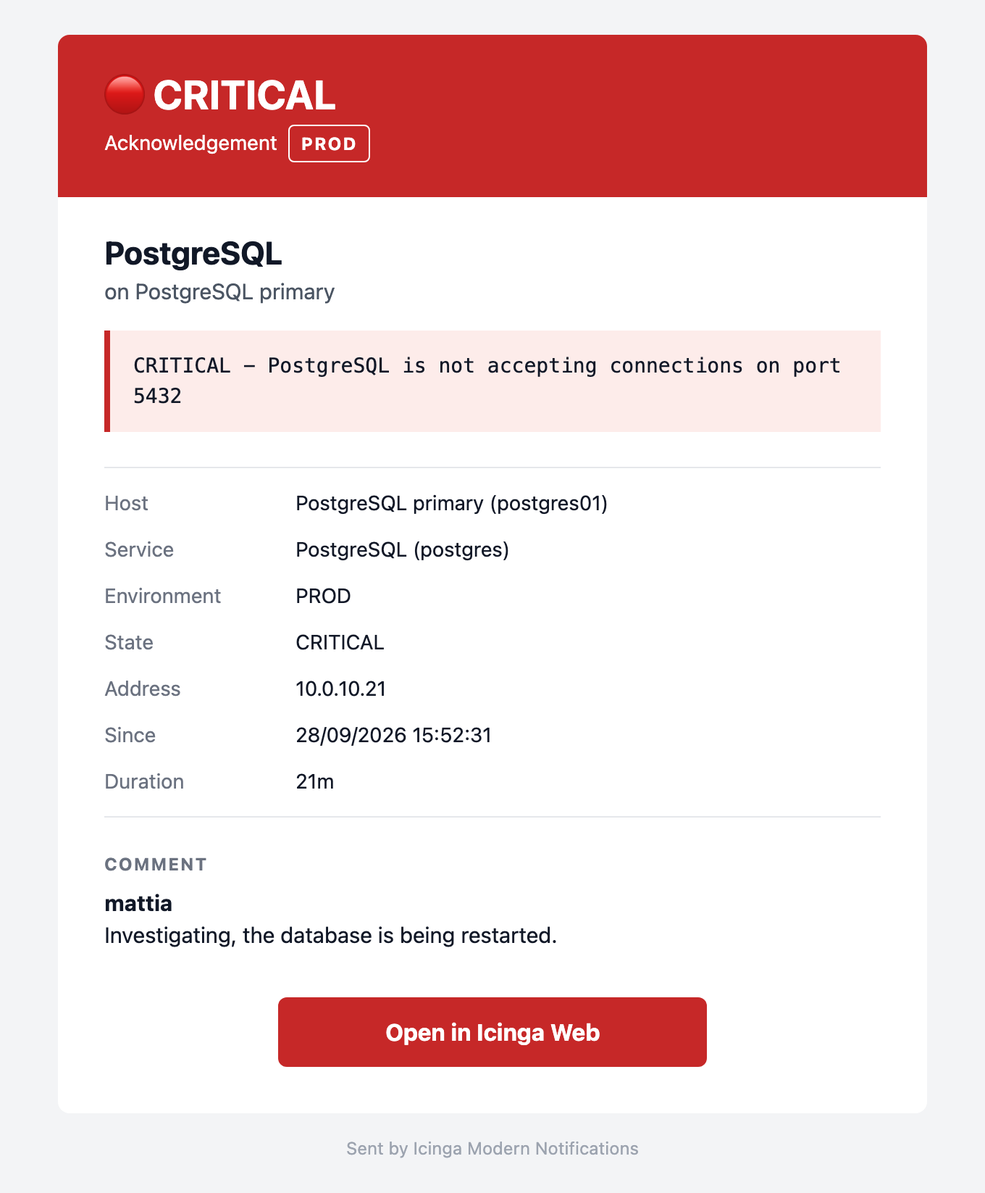
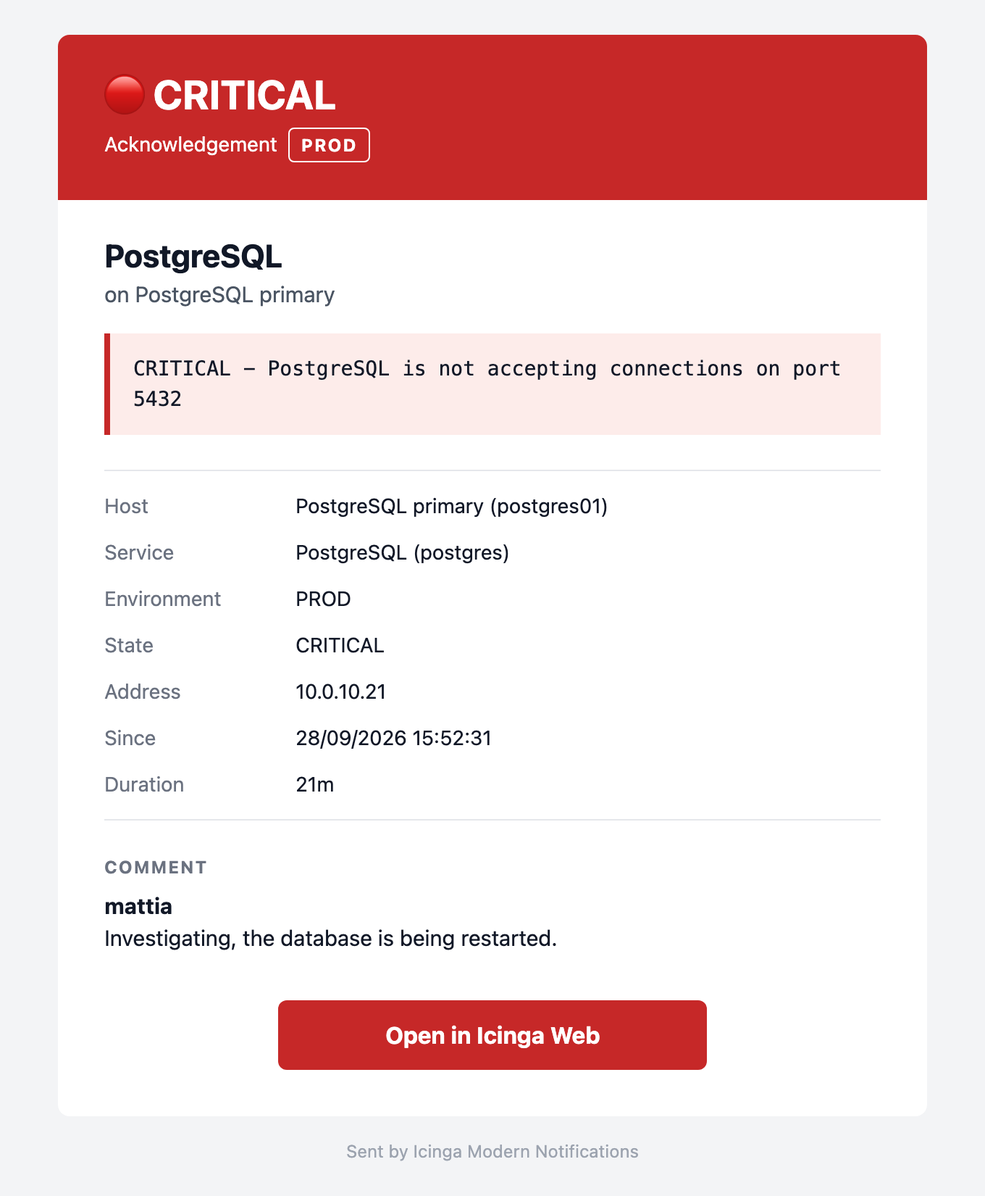
Show tags in the example emails and screenshots
Add location/team tags to the existing scenarios and a new WARNING
scenario with many tags (desktop and mobile screenshots) to show how
the header badges wrap.

diff --git a/examples/emails/service-warning-many-tags.html b/examples/emails/service-warning-many-tags.html
@@ -6,11 +6,11 @@
 <meta http-equiv="X-UA-Compatible" content="IE=edge">
 <meta name="color-scheme" content="light">
 <meta name="supported-color-schemes" content="light">
-<title>🔴 [ICINGA][CRITICAL][PROD] postgres01 / postgres</title>
+<title>🟠 [ICINGA][WARNING][PROD] postgres01 / erp-api</title>
 <style>
   body { margin: 0 !important; padding: 0 !important; width: 100% !important; }
   table { border-collapse: collapse; }
-  a { color: #c62828; }
+  a { color: #e65100; }
   @media only screen and (max-width: 620px) {
     .container { width: 100% !important; }
     .outer { padding: 0 !important; }
@@ -23,22 +23,22 @@
 </style>
 </head>
 <body style="margin:0; padding:0; background-color:#f3f4f6;">
-<div style="display:none; max-height:0; overflow:hidden; mso-hide:all; font-size:1px; line-height:1px; color:#f3f4f6;">CRITICAL - postgres01 / postgres: CRITICAL - PostgreSQL is not accepting connections on port 5432</div>
+<div style="display:none; max-height:0; overflow:hidden; mso-hide:all; font-size:1px; line-height:1px; color:#f3f4f6;">WARNING - postgres01 / erp-api: HTTP WARNING - response time 2.8 s (warning at 2 s)</div>
 <table role="presentation" width="100%" cellpadding="0" cellspacing="0" border="0" style="background-color:#f3f4f6;">
 <tr>
 <td class="outer" align="center" style="padding:24px 12px;">
 <!--[if mso]><table role="presentation" width="600" cellpadding="0" cellspacing="0" border="0"><tr><td><![endif]-->
 <table role="presentation" class="container" width="600" cellpadding="0" cellspacing="0" border="0" style="width:100%; max-width:600px; background-color:#ffffff; border-radius:8px; overflow:hidden;"><tr>
-    <td class="px" bgcolor="#c62828" style="background-color:#c62828; padding:24px 32px;">
-      <div class="status" style="font-family:-apple-system, BlinkMacSystemFont, 'Segoe UI', Roboto, Helvetica, Arial, sans-serif; font-size:28px; line-height:34px; font-weight:bold; color:#ffffff;">🔴 CRITICAL</div>      <div class="badges" style="font-family:-apple-system, BlinkMacSystemFont, 'Segoe UI', Roboto, Helvetica, Arial, sans-serif; font-size:14px; line-height:26px; color:#ffffff; padding-top:4px;"><span style="display:inline-block; padding:2px 8px; border:1px solid #ffffff; border-radius:4px; font-size:12px; line-height:18px; margin:2px 0; font-weight:bold; letter-spacing:1px;">PROD</span>&nbsp; <span title="Location" style="display:inline-block; padding:2px 8px; border:1px solid #ffffff; border-radius:4px; font-size:12px; line-height:18px; margin:2px 0;">DC Milano</span>&nbsp; <span title="Team" style="display:inline-block; padding:2px 8px; border:1px solid #ffffff; border-radius:4px; font-size:12px; line-height:18px; margin:2px 0;">DBA</span></div>    </td>
+    <td class="px" bgcolor="#e65100" style="background-color:#e65100; padding:24px 32px;">
+      <div class="status" style="font-family:-apple-system, BlinkMacSystemFont, 'Segoe UI', Roboto, Helvetica, Arial, sans-serif; font-size:28px; line-height:34px; font-weight:bold; color:#ffffff;">🟠 WARNING</div>      <div class="badges" style="font-family:-apple-system, BlinkMacSystemFont, 'Segoe UI', Roboto, Helvetica, Arial, sans-serif; font-size:14px; line-height:26px; color:#ffffff; padding-top:4px;"><span style="display:inline-block; padding:2px 8px; border:1px solid #ffffff; border-radius:4px; font-size:12px; line-height:18px; margin:2px 0; font-weight:bold; letter-spacing:1px;">PROD</span>&nbsp; <span title="Location" style="display:inline-block; padding:2px 8px; border:1px solid #ffffff; border-radius:4px; font-size:12px; line-height:18px; margin:2px 0;">DC Milano</span>&nbsp; <span title="Team" style="display:inline-block; padding:2px 8px; border:1px solid #ffffff; border-radius:4px; font-size:12px; line-height:18px; margin:2px 0;">Applications</span>&nbsp; <span title="Customer" style="display:inline-block; padding:2px 8px; border:1px solid #ffffff; border-radius:4px; font-size:12px; line-height:18px; margin:2px 0;">ACME S.p.A.</span>&nbsp; <span title="Service level" style="display:inline-block; padding:2px 8px; border:1px solid #ffffff; border-radius:4px; font-size:12px; line-height:18px; margin:2px 0;">Gold 24x7</span>&nbsp; <span title="Cluster" style="display:inline-block; padding:2px 8px; border:1px solid #ffffff; border-radius:4px; font-size:12px; line-height:18px; margin:2px 0;">erp-prod-a</span>&nbsp; <span title="Owner" style="display:inline-block; padding:2px 8px; border:1px solid #ffffff; border-radius:4px; font-size:12px; line-height:18px; margin:2px 0;">m.rossi</span></div>    </td>
   </tr><tr>
-    <td class="px" style="padding:24px 32px 16px 32px;">      <div class="title" style="font-family:-apple-system, BlinkMacSystemFont, 'Segoe UI', Roboto, Helvetica, Arial, sans-serif; font-size:22px; line-height:28px; font-weight:bold; color:#111827; word-break:break-word;">PostgreSQL</div>
+    <td class="px" style="padding:24px 32px 16px 32px;">      <div class="title" style="font-family:-apple-system, BlinkMacSystemFont, 'Segoe UI', Roboto, Helvetica, Arial, sans-serif; font-size:22px; line-height:28px; font-weight:bold; color:#111827; word-break:break-word;">ERP API latency</div>
       <div style="font-family:-apple-system, BlinkMacSystemFont, 'Segoe UI', Roboto, Helvetica, Arial, sans-serif; font-size:15px; line-height:22px; color:#4b5563; padding-top:2px; word-break:break-word;">on PostgreSQL primary</div>    </td>
   </tr><tr>
     <td class="px" style="padding:0 32px 24px 32px;">
       <table role="presentation" width="100%" cellpadding="0" cellspacing="0" border="0">
         <tr>
-          <td bgcolor="#fdecea" style="background-color:#fdecea; border-left:4px solid #c62828; padding:14px 16px; font-family:SFMono-Regular, Menlo, Consolas, 'Liberation Mono', 'Courier New', monospace; font-size:14px; line-height:21px; color:#111827; word-break:break-word;">CRITICAL - PostgreSQL is not accepting connections on port 5432</td>
+          <td bgcolor="#fff3e0" style="background-color:#fff3e0; border-left:4px solid #e65100; padding:14px 16px; font-family:SFMono-Regular, Menlo, Consolas, 'Liberation Mono', 'Courier New', monospace; font-size:14px; line-height:21px; color:#111827; word-break:break-word;">HTTP WARNING - response time 2.8 s (warning at 2 s)</td>
         </tr>
       </table>
     </td>
@@ -50,7 +50,7 @@
   <td valign="top" style="padding:6px 0; font-family:-apple-system, BlinkMacSystemFont, 'Segoe UI', Roboto, Helvetica, Arial, sans-serif; font-size:14px; line-height:20px; color:#111827; word-break:break-word;">PostgreSQL primary (postgres01)</td>
 </tr>        <tr>
   <td class="label" valign="top" style="padding:6px 12px 6px 0; width:120px; font-family:-apple-system, BlinkMacSystemFont, 'Segoe UI', Roboto, Helvetica, Arial, sans-serif; font-size:14px; line-height:20px; color:#6b7280;">Service</td>
-  <td valign="top" style="padding:6px 0; font-family:-apple-system, BlinkMacSystemFont, 'Segoe UI', Roboto, Helvetica, Arial, sans-serif; font-size:14px; line-height:20px; color:#111827; word-break:break-word;">PostgreSQL (postgres)</td>
+  <td valign="top" style="padding:6px 0; font-family:-apple-system, BlinkMacSystemFont, 'Segoe UI', Roboto, Helvetica, Arial, sans-serif; font-size:14px; line-height:20px; color:#111827; word-break:break-word;">ERP API latency (erp-api)</td>
 </tr>        <tr>
   <td class="label" valign="top" style="padding:6px 12px 6px 0; width:120px; font-family:-apple-system, BlinkMacSystemFont, 'Segoe UI', Roboto, Helvetica, Arial, sans-serif; font-size:14px; line-height:20px; color:#6b7280;">Environment</td>
   <td valign="top" style="padding:6px 0; font-family:-apple-system, BlinkMacSystemFont, 'Segoe UI', Roboto, Helvetica, Arial, sans-serif; font-size:14px; line-height:20px; color:#111827; word-break:break-word;">PROD</td>
@@ -59,10 +59,22 @@
   <td valign="top" style="padding:6px 0; font-family:-apple-system, BlinkMacSystemFont, 'Segoe UI', Roboto, Helvetica, Arial, sans-serif; font-size:14px; line-height:20px; color:#111827; word-break:break-word;">DC Milano</td>
 </tr>        <tr>
   <td class="label" valign="top" style="padding:6px 12px 6px 0; width:120px; font-family:-apple-system, BlinkMacSystemFont, 'Segoe UI', Roboto, Helvetica, Arial, sans-serif; font-size:14px; line-height:20px; color:#6b7280;">Team</td>
-  <td valign="top" style="padding:6px 0; font-family:-apple-system, BlinkMacSystemFont, 'Segoe UI', Roboto, Helvetica, Arial, sans-serif; font-size:14px; line-height:20px; color:#111827; word-break:break-word;">DBA</td>
+  <td valign="top" style="padding:6px 0; font-family:-apple-system, BlinkMacSystemFont, 'Segoe UI', Roboto, Helvetica, Arial, sans-serif; font-size:14px; line-height:20px; color:#111827; word-break:break-word;">Applications</td>
+</tr>        <tr>
+  <td class="label" valign="top" style="padding:6px 12px 6px 0; width:120px; font-family:-apple-system, BlinkMacSystemFont, 'Segoe UI', Roboto, Helvetica, Arial, sans-serif; font-size:14px; line-height:20px; color:#6b7280;">Customer</td>
+  <td valign="top" style="padding:6px 0; font-family:-apple-system, BlinkMacSystemFont, 'Segoe UI', Roboto, Helvetica, Arial, sans-serif; font-size:14px; line-height:20px; color:#111827; word-break:break-word;">ACME S.p.A.</td>
+</tr>        <tr>
+  <td class="label" valign="top" style="padding:6px 12px 6px 0; width:120px; font-family:-apple-system, BlinkMacSystemFont, 'Segoe UI', Roboto, Helvetica, Arial, sans-serif; font-size:14px; line-height:20px; color:#6b7280;">Service level</td>
+  <td valign="top" style="padding:6px 0; font-family:-apple-system, BlinkMacSystemFont, 'Segoe UI', Roboto, Helvetica, Arial, sans-serif; font-size:14px; line-height:20px; color:#111827; word-break:break-word;">Gold 24x7</td>
+</tr>        <tr>
+  <td class="label" valign="top" style="padding:6px 12px 6px 0; width:120px; font-family:-apple-system, BlinkMacSystemFont, 'Segoe UI', Roboto, Helvetica, Arial, sans-serif; font-size:14px; line-height:20px; color:#6b7280;">Cluster</td>
+  <td valign="top" style="padding:6px 0; font-family:-apple-system, BlinkMacSystemFont, 'Segoe UI', Roboto, Helvetica, Arial, sans-serif; font-size:14px; line-height:20px; color:#111827; word-break:break-word;">erp-prod-a</td>
+</tr>        <tr>
+  <td class="label" valign="top" style="padding:6px 12px 6px 0; width:120px; font-family:-apple-system, BlinkMacSystemFont, 'Segoe UI', Roboto, Helvetica, Arial, sans-serif; font-size:14px; line-height:20px; color:#6b7280;">Owner</td>
+  <td valign="top" style="padding:6px 0; font-family:-apple-system, BlinkMacSystemFont, 'Segoe UI', Roboto, Helvetica, Arial, sans-serif; font-size:14px; line-height:20px; color:#111827; word-break:break-word;">m.rossi</td>
 </tr>        <tr>
   <td class="label" valign="top" style="padding:6px 12px 6px 0; width:120px; font-family:-apple-system, BlinkMacSystemFont, 'Segoe UI', Roboto, Helvetica, Arial, sans-serif; font-size:14px; line-height:20px; color:#6b7280;">State</td>
-  <td valign="top" style="padding:6px 0; font-family:-apple-system, BlinkMacSystemFont, 'Segoe UI', Roboto, Helvetica, Arial, sans-serif; font-size:14px; line-height:20px; color:#111827; word-break:break-word;">CRITICAL</td>
+  <td valign="top" style="padding:6px 0; font-family:-apple-system, BlinkMacSystemFont, 'Segoe UI', Roboto, Helvetica, Arial, sans-serif; font-size:14px; line-height:20px; color:#111827; word-break:break-word;">WARNING</td>
 </tr>        <tr>
   <td class="label" valign="top" style="padding:6px 12px 6px 0; width:120px; font-family:-apple-system, BlinkMacSystemFont, 'Segoe UI', Roboto, Helvetica, Arial, sans-serif; font-size:14px; line-height:20px; color:#6b7280;">Address</td>
   <td valign="top" style="padding:6px 0; font-family:-apple-system, BlinkMacSystemFont, 'Segoe UI', Roboto, Helvetica, Arial, sans-serif; font-size:14px; line-height:20px; color:#111827; word-break:break-word;">10.0.10.21</td>
@@ -71,36 +83,20 @@
   <td valign="top" style="padding:6px 0; font-family:-apple-system, BlinkMacSystemFont, 'Segoe UI', Roboto, Helvetica, Arial, sans-serif; font-size:14px; line-height:20px; color:#111827; word-break:break-word;">28/09/2026 15:52:31</td>
 </tr>        <tr>
   <td class="label" valign="top" style="padding:6px 12px 6px 0; width:120px; font-family:-apple-system, BlinkMacSystemFont, 'Segoe UI', Roboto, Helvetica, Arial, sans-serif; font-size:14px; line-height:20px; color:#6b7280;">Duration</td>
-  <td valign="top" style="padding:6px 0; font-family:-apple-system, BlinkMacSystemFont, 'Segoe UI', Roboto, Helvetica, Arial, sans-serif; font-size:14px; line-height:20px; color:#111827; word-break:break-word;">16m 14s</td>
+  <td valign="top" style="padding:6px 0; font-family:-apple-system, BlinkMacSystemFont, 'Segoe UI', Roboto, Helvetica, Arial, sans-serif; font-size:14px; line-height:20px; color:#111827; word-break:break-word;">10m 40s</td>
 </tr>        <tr><td colspan="2" style="height:8px; line-height:8px; font-size:8px;">&nbsp;</td></tr>
       </table>
     </td>
   </tr>  <tr>
-    <td class="px" style="padding:0 32px 24px 32px;">
-      <div style="font-family:-apple-system, BlinkMacSystemFont, 'Segoe UI', Roboto, Helvetica, Arial, sans-serif; font-size:12px; line-height:16px; font-weight:bold; letter-spacing:1px; text-transform:uppercase; color:#6b7280; padding-bottom:8px;">Additional output</div>
-      <table role="presentation" width="100%" cellpadding="0" cellspacing="0" border="0">
-        <tr>
-          <td bgcolor="#f9fafb" style="background-color:#f9fafb; border:1px solid #e5e7eb; padding:12px 14px; font-family:SFMono-Regular, Menlo, Consolas, 'Liberation Mono', 'Courier New', monospace; font-size:13px; line-height:19px; color:#374151; word-break:break-word;">connection to server at &#34;10.0.10.21&#34;, port 5432 failed: Connection refused<br>
-Is the server running on that host and accepting TCP/IP connections?</td>
-        </tr>
-      </table>
-    </td>
-  </tr><tr>
-  <td class="px" style="padding:0 32px 24px 32px;">
-    <div style="font-family:-apple-system, BlinkMacSystemFont, 'Segoe UI', Roboto, Helvetica, Arial, sans-serif; font-size:12px; line-height:16px; font-weight:bold; letter-spacing:1px; text-transform:uppercase; color:#6b7280; padding-bottom:8px;">Notes</div>
-    <div style="font-family:-apple-system, BlinkMacSystemFont, 'Segoe UI', Roboto, Helvetica, Arial, sans-serif; font-size:15px; line-height:22px; color:#111827; word-break:break-word;">Main PostgreSQL database for the ERP.<br>
-On-call DBA: +39 000 0000000</div>
-  </td>
-</tr>  <tr>
     <td class="px button" align="center" style="padding:8px 32px 32px 32px;">
       <!--[if mso]>
-      <v:roundrect xmlns:v="urn:schemas-microsoft-com:vml" xmlns:w="urn:schemas-microsoft-com:office:word" href="https://monitoring.example.com/icingaweb2/icingadb/service?name=postgres&amp;host.name=postgres01" style="height:48px; v-text-anchor:middle; width:280px;" arcsize="10%" stroke="f" fillcolor="#c62828">
+      <v:roundrect xmlns:v="urn:schemas-microsoft-com:vml" xmlns:w="urn:schemas-microsoft-com:office:word" href="https://monitoring.example.com/icingaweb2/icingadb/service?name=erp-api&amp;host.name=postgres01" style="height:48px; v-text-anchor:middle; width:280px;" arcsize="10%" stroke="f" fillcolor="#e65100">
         <w:anchorlock/>
         <center style="color:#ffffff; font-family:Arial, sans-serif; font-size:16px; font-weight:bold;">Open in Icinga Web</center>
       </v:roundrect>
       <![endif]-->
       <!--[if !mso]><!-->
-      <a href="https://monitoring.example.com/icingaweb2/icingadb/service?name=postgres&amp;host.name=postgres01" target="_blank" rel="noopener" style="display:inline-block; min-width:240px; padding:14px 28px; background-color:#c62828; border-radius:6px; font-family:-apple-system, BlinkMacSystemFont, 'Segoe UI', Roboto, Helvetica, Arial, sans-serif; font-size:16px; line-height:20px; font-weight:bold; color:#ffffff; text-align:center; text-decoration:none;">Open in Icinga Web</a>
+      <a href="https://monitoring.example.com/icingaweb2/icingadb/service?name=erp-api&amp;host.name=postgres01" target="_blank" rel="noopener" style="display:inline-block; min-width:240px; padding:14px 28px; background-color:#e65100; border-radius:6px; font-family:-apple-system, BlinkMacSystemFont, 'Segoe UI', Roboto, Helvetica, Arial, sans-serif; font-size:16px; line-height:20px; font-weight:bold; color:#ffffff; text-align:center; text-decoration:none;">Open in Icinga Web</a>
       <!--<![endif]-->
     </td>
   </tr>

diff --git a/examples/emails/host-recovery.html b/examples/emails/host-recovery.html
@@ -30,7 +30,7 @@
 <!--[if mso]><table role="presentation" width="600" cellpadding="0" cellspacing="0" border="0"><tr><td><![endif]-->
 <table role="presentation" class="container" width="600" cellpadding="0" cellspacing="0" border="0" style="width:100%; max-width:600px; background-color:#ffffff; border-radius:8px; overflow:hidden;"><tr>
     <td class="px" bgcolor="#2e7d32" style="background-color:#2e7d32; padding:24px 32px;">
-      <div class="status" style="font-family:-apple-system, BlinkMacSystemFont, 'Segoe UI', Roboto, Helvetica, Arial, sans-serif; font-size:28px; line-height:34px; font-weight:bold; color:#ffffff;">🟢 RECOVERY</div>      <div style="font-family:-apple-system, BlinkMacSystemFont, 'Segoe UI', Roboto, Helvetica, Arial, sans-serif; font-size:14px; line-height:20px; color:#ffffff; padding-top:4px;"><span style="display:inline-block; padding:2px 8px; border:1px solid #ffffff; border-radius:4px; font-weight:bold; font-size:12px; letter-spacing:1px;">PROD</span></div>    </td>
+      <div class="status" style="font-family:-apple-system, BlinkMacSystemFont, 'Segoe UI', Roboto, Helvetica, Arial, sans-serif; font-size:28px; line-height:34px; font-weight:bold; color:#ffffff;">🟢 RECOVERY</div>      <div class="badges" style="font-family:-apple-system, BlinkMacSystemFont, 'Segoe UI', Roboto, Helvetica, Arial, sans-serif; font-size:14px; line-height:26px; color:#ffffff; padding-top:4px;"><span style="display:inline-block; padding:2px 8px; border:1px solid #ffffff; border-radius:4px; font-size:12px; line-height:18px; margin:2px 0; font-weight:bold; letter-spacing:1px;">PROD</span>&nbsp; <span title="Location" style="display:inline-block; padding:2px 8px; border:1px solid #ffffff; border-radius:4px; font-size:12px; line-height:18px; margin:2px 0;">DC Milano</span></div>    </td>
   </tr><tr>
     <td class="px" style="padding:24px 32px 16px 32px;">      <div class="title" style="font-family:-apple-system, BlinkMacSystemFont, 'Segoe UI', Roboto, Helvetica, Arial, sans-serif; font-size:22px; line-height:28px; font-weight:bold; color:#111827; word-break:break-word;">PostgreSQL primary</div>    </td>
   </tr><tr>
@@ -50,6 +50,9 @@
 </tr>        <tr>
   <td class="label" valign="top" style="padding:6px 12px 6px 0; width:120px; font-family:-apple-system, BlinkMacSystemFont, 'Segoe UI', Roboto, Helvetica, Arial, sans-serif; font-size:14px; line-height:20px; color:#6b7280;">Environment</td>
   <td valign="top" style="padding:6px 0; font-family:-apple-system, BlinkMacSystemFont, 'Segoe UI', Roboto, Helvetica, Arial, sans-serif; font-size:14px; line-height:20px; color:#111827; word-break:break-word;">PROD</td>
+</tr>        <tr>
+  <td class="label" valign="top" style="padding:6px 12px 6px 0; width:120px; font-family:-apple-system, BlinkMacSystemFont, 'Segoe UI', Roboto, Helvetica, Arial, sans-serif; font-size:14px; line-height:20px; color:#6b7280;">Location</td>
+  <td valign="top" style="padding:6px 0; font-family:-apple-system, BlinkMacSystemFont, 'Segoe UI', Roboto, Helvetica, Arial, sans-serif; font-size:14px; line-height:20px; color:#111827; word-break:break-word;">DC Milano</td>
 </tr>        <tr>
   <td class="label" valign="top" style="padding:6px 12px 6px 0; width:120px; font-family:-apple-system, BlinkMacSystemFont, 'Segoe UI', Roboto, Helvetica, Arial, sans-serif; font-size:14px; line-height:20px; color:#6b7280;">State</td>
   <td valign="top" style="padding:6px 0; font-family:-apple-system, BlinkMacSystemFont, 'Segoe UI', Roboto, Helvetica, Arial, sans-serif; font-size:14px; line-height:20px; color:#111827; word-break:break-word;">UP</td>

diff --git a/examples/emails/host-down.html b/examples/emails/host-down.html
@@ -30,7 +30,7 @@
 <!--[if mso]><table role="presentation" width="600" cellpadding="0" cellspacing="0" border="0"><tr><td><![endif]-->
 <table role="presentation" class="container" width="600" cellpadding="0" cellspacing="0" border="0" style="width:100%; max-width:600px; background-color:#ffffff; border-radius:8px; overflow:hidden;"><tr>
     <td class="px" bgcolor="#c62828" style="background-color:#c62828; padding:24px 32px;">
-      <div class="status" style="font-family:-apple-system, BlinkMacSystemFont, 'Segoe UI', Roboto, Helvetica, Arial, sans-serif; font-size:28px; line-height:34px; font-weight:bold; color:#ffffff;">🔴 DOWN</div>      <div style="font-family:-apple-system, BlinkMacSystemFont, 'Segoe UI', Roboto, Helvetica, Arial, sans-serif; font-size:14px; line-height:20px; color:#ffffff; padding-top:4px;"><span style="display:inline-block; padding:2px 8px; border:1px solid #ffffff; border-radius:4px; font-weight:bold; font-size:12px; letter-spacing:1px;">PROD</span></div>    </td>
+      <div class="status" style="font-family:-apple-system, BlinkMacSystemFont, 'Segoe UI', Roboto, Helvetica, Arial, sans-serif; font-size:28px; line-height:34px; font-weight:bold; color:#ffffff;">🔴 DOWN</div>      <div class="badges" style="font-family:-apple-system, BlinkMacSystemFont, 'Segoe UI', Roboto, Helvetica, Arial, sans-serif; font-size:14px; line-height:26px; color:#ffffff; padding-top:4px;"><span style="display:inline-block; padding:2px 8px; border:1px solid #ffffff; border-radius:4px; font-size:12px; line-height:18px; margin:2px 0; font-weight:bold; letter-spacing:1px;">PROD</span>&nbsp; <span title="Location" style="display:inline-block; padding:2px 8px; border:1px solid #ffffff; border-radius:4px; font-size:12px; line-height:18px; margin:2px 0;">DC Milano</span></div>    </td>
   </tr><tr>
     <td class="px" style="padding:24px 32px 16px 32px;">      <div class="title" style="font-family:-apple-system, BlinkMacSystemFont, 'Segoe UI', Roboto, Helvetica, Arial, sans-serif; font-size:22px; line-height:28px; font-weight:bold; color:#111827; word-break:break-word;">PostgreSQL primary</div>    </td>
   </tr><tr>
@@ -50,6 +50,9 @@
 </tr>        <tr>
   <td class="label" valign="top" style="padding:6px 12px 6px 0; width:120px; font-family:-apple-system, BlinkMacSystemFont, 'Segoe UI', Roboto, Helvetica, Arial, sans-serif; font-size:14px; line-height:20px; color:#6b7280;">Environment</td>
   <td valign="top" style="padding:6px 0; font-family:-apple-system, BlinkMacSystemFont, 'Segoe UI', Roboto, Helvetica, Arial, sans-serif; font-size:14px; line-height:20px; color:#111827; word-break:break-word;">PROD</td>
+</tr>        <tr>
+  <td class="label" valign="top" style="padding:6px 12px 6px 0; width:120px; font-family:-apple-system, BlinkMacSystemFont, 'Segoe UI', Roboto, Helvetica, Arial, sans-serif; font-size:14px; line-height:20px; color:#6b7280;">Location</td>
+  <td valign="top" style="padding:6px 0; font-family:-apple-system, BlinkMacSystemFont, 'Segoe UI', Roboto, Helvetica, Arial, sans-serif; font-size:14px; line-height:20px; color:#111827; word-break:break-word;">DC Milano</td>
 </tr>        <tr>
   <td class="label" valign="top" style="padding:6px 12px 6px 0; width:120px; font-family:-apple-system, BlinkMacSystemFont, 'Segoe UI', Roboto, Helvetica, Arial, sans-serif; font-size:14px; line-height:20px; color:#6b7280;">State</td>
   <td valign="top" style="padding:6px 0; font-family:-apple-system, BlinkMacSystemFont, 'Segoe UI', Roboto, Helvetica, Arial, sans-serif; font-size:14px; line-height:20px; color:#111827; word-break:break-word;">DOWN</td>

diff --git a/examples/emails/index.html b/examples/emails/index.html
@@ -1,2 +1,2 @@
 <!DOCTYPE html>
-<html lang="en"><head><meta charset="utf-8"><meta name="viewport" content="width=device-width, initial-scale=1"><title>Icinga Modern Notifications - examples</title></head><body style="font-family:sans-serif; max-width:720px; margin:24px auto; padding:0 16px; line-height:1.5;"><h1>Icinga Modern Notifications - email examples</h1><ul><li><a href="service-critical.html">Service CRITICAL with notes and long output</a><br><code>🔴 [ICINGA][CRITICAL][PROD] postgres01 / postgres</code></li><li><a href="service-warning.html">Service WARNING</a><br><code>🟠 [ICINGA][WARNING][PROD] postgres01 / disk-var</code></li><li><a href="service-unknown.html">Service UNKNOWN</a><br><code>🟣 [ICINGA][UNKNOWN][PROD] postgres01 / backup</code></li><li><a href="service-recovery.html">Service RECOVERY</a><br><code>🟢 [ICINGA][RECOVERY][PROD] postgres01 / postgres</code></li><li><a href="service-acknowledgement.html">Service acknowledgement with author and comment</a><br><code>🔴 [ICINGA][CRITICAL][PROD] postgres01 / postgres</code></li><li><a href="host-down.html">Host DOWN</a><br><code>🔴 [ICINGA][DOWN][PROD] postgres01</code></li><li><a href="host-recovery.html">Host RECOVERY</a><br><code>🟢 [ICINGA][RECOVERY][PROD] postgres01</code></li><li><a href="service-critical-minimal.html">Service CRITICAL without any optional data</a><br><code>🔴 [ICINGA][CRITICAL] web01 / http</code></li></ul></body></html>
+<html lang="en"><head><meta charset="utf-8"><meta name="viewport" content="width=device-width, initial-scale=1"><title>Icinga Modern Notifications - examples</title></head><body style="font-family:sans-serif; max-width:720px; margin:24px auto; padding:0 16px; line-height:1.5;"><h1>Icinga Modern Notifications - email examples</h1><ul><li><a href="service-critical.html">Service CRITICAL with notes and long output</a><br><code>🔴 [ICINGA][CRITICAL][PROD] postgres01 / postgres</code></li><li><a href="service-warning.html">Service WARNING</a><br><code>🟠 [ICINGA][WARNING][PROD] postgres01 / disk-var</code></li><li><a href="service-unknown.html">Service UNKNOWN</a><br><code>🟣 [ICINGA][UNKNOWN][PROD] postgres01 / backup</code></li><li><a href="service-recovery.html">Service RECOVERY</a><br><code>🟢 [ICINGA][RECOVERY][PROD] postgres01 / postgres</code></li><li><a href="service-acknowledgement.html">Service acknowledgement with author and comment</a><br><code>🔴 [ICINGA][CRITICAL][PROD] postgres01 / postgres</code></li><li><a href="host-down.html">Host DOWN</a><br><code>🔴 [ICINGA][DOWN][PROD] postgres01</code></li><li><a href="host-recovery.html">Host RECOVERY</a><br><code>🟢 [ICINGA][RECOVERY][PROD] postgres01</code></li><li><a href="service-warning-many-tags.html">Service WARNING with many tags</a><br><code>🟠 [ICINGA][WARNING][PROD] postgres01 / erp-api</code></li><li><a href="service-critical-minimal.html">Service CRITICAL without any optional data</a><br><code>🔴 [ICINGA][CRITICAL] web01 / http</code></li></ul></body></html>

diff --git a/examples/emails/service-acknowledgement.html b/examples/emails/service-acknowledgement.html
@@ -30,7 +30,7 @@
 <!--[if mso]><table role="presentation" width="600" cellpadding="0" cellspacing="0" border="0"><tr><td><![endif]-->
 <table role="presentation" class="container" width="600" cellpadding="0" cellspacing="0" border="0" style="width:100%; max-width:600px; background-color:#ffffff; border-radius:8px; overflow:hidden;"><tr>
     <td class="px" bgcolor="#c62828" style="background-color:#c62828; padding:24px 32px;">
-      <div class="status" style="font-family:-apple-system, BlinkMacSystemFont, 'Segoe UI', Roboto, Helvetica, Arial, sans-serif; font-size:28px; line-height:34px; font-weight:bold; color:#ffffff;">🔴 CRITICAL</div>      <div style="font-family:-apple-system, BlinkMacSystemFont, 'Segoe UI', Roboto, Helvetica, Arial, sans-serif; font-size:14px; line-height:20px; color:#ffffff; padding-top:4px;">Acknowledgement &nbsp;<span style="display:inline-block; padding:2px 8px; border:1px solid #ffffff; border-radius:4px; font-weight:bold; font-size:12px; letter-spacing:1px;">PROD</span></div>    </td>
+      <div class="status" style="font-family:-apple-system, BlinkMacSystemFont, 'Segoe UI', Roboto, Helvetica, Arial, sans-serif; font-size:28px; line-height:34px; font-weight:bold; color:#ffffff;">🔴 CRITICAL</div>      <div class="badges" style="font-family:-apple-system, BlinkMacSystemFont, 'Segoe UI', Roboto, Helvetica, Arial, sans-serif; font-size:14px; line-height:26px; color:#ffffff; padding-top:4px;">Acknowledgement&nbsp; <span style="display:inline-block; padding:2px 8px; border:1px solid #ffffff; border-radius:4px; font-size:12px; line-height:18px; margin:2px 0; font-weight:bold; letter-spacing:1px;">PROD</span></div>    </td>
   </tr><tr>
     <td class="px" style="padding:24px 32px 16px 32px;">      <div class="title" style="font-family:-apple-system, BlinkMacSystemFont, 'Segoe UI', Roboto, Helvetica, Arial, sans-serif; font-size:22px; line-height:28px; font-weight:bold; color:#111827; word-break:break-word;">PostgreSQL</div>
       <div style="font-family:-apple-system, BlinkMacSystemFont, 'Segoe UI', Roboto, Helvetica, Arial, sans-serif; font-size:15px; line-height:22px; color:#4b5563; padding-top:2px; word-break:break-word;">on PostgreSQL primary</div>    </td>

diff --git a/examples/emails/service-unknown.html b/examples/emails/service-unknown.html
@@ -30,7 +30,7 @@
 <!--[if mso]><table role="presentation" width="600" cellpadding="0" cellspacing="0" border="0"><tr><td><![endif]-->
 <table role="presentation" class="container" width="600" cellpadding="0" cellspacing="0" border="0" style="width:100%; max-width:600px; background-color:#ffffff; border-radius:8px; overflow:hidden;"><tr>
     <td class="px" bgcolor="#6a1b9a" style="background-color:#6a1b9a; padding:24px 32px;">
-      <div class="status" style="font-family:-apple-system, BlinkMacSystemFont, 'Segoe UI', Roboto, Helvetica, Arial, sans-serif; font-size:28px; line-height:34px; font-weight:bold; color:#ffffff;">🟣 UNKNOWN</div>      <div style="font-family:-apple-system, BlinkMacSystemFont, 'Segoe UI', Roboto, Helvetica, Arial, sans-serif; font-size:14px; line-height:20px; color:#ffffff; padding-top:4px;"><span style="display:inline-block; padding:2px 8px; border:1px solid #ffffff; border-radius:4px; font-weight:bold; font-size:12px; letter-spacing:1px;">PROD</span></div>    </td>
+      <div class="status" style="font-family:-apple-system, BlinkMacSystemFont, 'Segoe UI', Roboto, Helvetica, Arial, sans-serif; font-size:28px; line-height:34px; font-weight:bold; color:#ffffff;">🟣 UNKNOWN</div>      <div class="badges" style="font-family:-apple-system, BlinkMacSystemFont, 'Segoe UI', Roboto, Helvetica, Arial, sans-serif; font-size:14px; line-height:26px; color:#ffffff; padding-top:4px;"><span style="display:inline-block; padding:2px 8px; border:1px solid #ffffff; border-radius:4px; font-size:12px; line-height:18px; margin:2px 0; font-weight:bold; letter-spacing:1px;">PROD</span></div>    </td>
   </tr><tr>
     <td class="px" style="padding:24px 32px 16px 32px;">      <div class="title" style="font-family:-apple-system, BlinkMacSystemFont, 'Segoe UI', Roboto, Helvetica, Arial, sans-serif; font-size:22px; line-height:28px; font-weight:bold; color:#111827; word-break:break-word;">Nightly backup</div>
       <div style="font-family:-apple-system, BlinkMacSystemFont, 'Segoe UI', Roboto, Helvetica, Arial, sans-serif; font-size:15px; line-height:22px; color:#4b5563; padding-top:2px; word-break:break-word;">on PostgreSQL primary</div>    </td>

diff --git a/examples/emails/service-recovery.html b/examples/emails/service-recovery.html
@@ -30,7 +30,7 @@
 <!--[if mso]><table role="presentation" width="600" cellpadding="0" cellspacing="0" border="0"><tr><td><![endif]-->
 <table role="presentation" class="container" width="600" cellpadding="0" cellspacing="0" border="0" style="width:100%; max-width:600px; background-color:#ffffff; border-radius:8px; overflow:hidden;"><tr>
     <td class="px" bgcolor="#2e7d32" style="background-color:#2e7d32; padding:24px 32px;">
-      <div class="status" style="font-family:-apple-system, BlinkMacSystemFont, 'Segoe UI', Roboto, Helvetica, Arial, sans-serif; font-size:28px; line-height:34px; font-weight:bold; color:#ffffff;">🟢 RECOVERY</div>      <div style="font-family:-apple-system, BlinkMacSystemFont, 'Segoe UI', Roboto, Helvetica, Arial, sans-serif; font-size:14px; line-height:20px; color:#ffffff; padding-top:4px;"><span style="display:inline-block; padding:2px 8px; border:1px solid #ffffff; border-radius:4px; font-weight:bold; font-size:12px; letter-spacing:1px;">PROD</span></div>    </td>
+      <div class="status" style="font-family:-apple-system, BlinkMacSystemFont, 'Segoe UI', Roboto, Helvetica, Arial, sans-serif; font-size:28px; line-height:34px; font-weight:bold; color:#ffffff;">🟢 RECOVERY</div>      <div class="badges" style="font-family:-apple-system, BlinkMacSystemFont, 'Segoe UI', Roboto, Helvetica, Arial, sans-serif; font-size:14px; line-height:26px; color:#ffffff; padding-top:4px;"><span style="display:inline-block; padding:2px 8px; border:1px solid #ffffff; border-radius:4px; font-size:12px; line-height:18px; margin:2px 0; font-weight:bold; letter-spacing:1px;">PROD</span></div>    </td>
   </tr><tr>
     <td class="px" style="padding:24px 32px 16px 32px;">      <div class="title" style="font-family:-apple-system, BlinkMacSystemFont, 'Segoe UI', Roboto, Helvetica, Arial, sans-serif; font-size:22px; line-height:28px; font-weight:bold; color:#111827; word-break:break-word;">PostgreSQL</div>
       <div style="font-family:-apple-system, BlinkMacSystemFont, 'Segoe UI', Roboto, Helvetica, Arial, sans-serif; font-size:15px; line-height:22px; color:#4b5563; padding-top:2px; word-break:break-word;">on PostgreSQL primary</div>    </td>

diff --git a/examples/emails/service-warning.html b/examples/emails/service-warning.html
@@ -30,7 +30,7 @@
 <!--[if mso]><table role="presentation" width="600" cellpadding="0" cellspacing="0" border="0"><tr><td><![endif]-->
 <table role="presentation" class="container" width="600" cellpadding="0" cellspacing="0" border="0" style="width:100%; max-width:600px; background-color:#ffffff; border-radius:8px; overflow:hidden;"><tr>
     <td class="px" bgcolor="#e65100" style="background-color:#e65100; padding:24px 32px;">
-      <div class="status" style="font-family:-apple-system, BlinkMacSystemFont, 'Segoe UI', Roboto, Helvetica, Arial, sans-serif; font-size:28px; line-height:34px; font-weight:bold; color:#ffffff;">🟠 WARNING</div>      <div style="font-family:-apple-system, BlinkMacSystemFont, 'Segoe UI', Roboto, Helvetica, Arial, sans-serif; font-size:14px; line-height:20px; color:#ffffff; padding-top:4px;"><span style="display:inline-block; padding:2px 8px; border:1px solid #ffffff; border-radius:4px; font-weight:bold; font-size:12px; letter-spacing:1px;">PROD</span></div>    </td>
+      <div class="status" style="font-family:-apple-system, BlinkMacSystemFont, 'Segoe UI', Roboto, Helvetica, Arial, sans-serif; font-size:28px; line-height:34px; font-weight:bold; color:#ffffff;">🟠 WARNING</div>      <div class="badges" style="font-family:-apple-system, BlinkMacSystemFont, 'Segoe UI', Roboto, Helvetica, Arial, sans-serif; font-size:14px; line-height:26px; color:#ffffff; padding-top:4px;"><span style="display:inline-block; padding:2px 8px; border:1px solid #ffffff; border-radius:4px; font-size:12px; line-height:18px; margin:2px 0; font-weight:bold; letter-spacing:1px;">PROD</span></div>    </td>
   </tr><tr>
     <td class="px" style="padding:24px 32px 16px 32px;">      <div class="title" style="font-family:-apple-system, BlinkMacSystemFont, 'Segoe UI', Roboto, Helvetica, Arial, sans-serif; font-size:22px; line-height:28px; font-weight:bold; color:#111827; word-break:break-word;">Disk /var</div>
       <div style="font-family:-apple-system, BlinkMacSystemFont, 'Segoe UI', Roboto, Helvetica, Arial, sans-serif; font-size:15px; line-height:22px; color:#4b5563; padding-top:2px; word-break:break-word;">on PostgreSQL primary</div>    </td>

diff --git a/examples/render_examples.py b/examples/render_examples.py
@@ -23,10 +23,11 @@ sys.path.insert(0, str(REPO))
 from icinga_modern_notifications.channels.mail.renderer import MailRenderer  # noqa: E402
 from icinga_modern_notifications.channels.mail.subject import build_subject  # noqa: E402
 from icinga_modern_notifications.icingaweb import object_url  # noqa: E402
-from icinga_modern_notifications.model import Notification, ObjectKind  # noqa: E402
+from icinga_modern_notifications.model import Notification, ObjectKind, Tag  # noqa: E402
 
 TIMESTAMP = 1790603551  # 28/09/2026 15:52:31 Europe/Rome
 ICINGAWEB = "https://monitoring.example.com/icingaweb2"
+LOCATION = Tag("Location", "DC Milano")
 
 SERVICE = dict(
     kind=ObjectKind.SERVICE,
@@ -65,6 +66,7 @@ SCENARIOS: dict[str, tuple[str, Notification]] = {
             "TCP/IP connections?",
             notes="Main PostgreSQL database for the ERP.\nOn-call DBA: +39 000 0000000",
             duration=974,
+            tags=(LOCATION, Tag("Team", "DBA")),
         ),
     ),
     "service-warning": (
@@ -118,6 +120,7 @@ SCENARIOS: dict[str, tuple[str, Notification]] = {
             output="PING CRITICAL - Packet loss = 100%",
             notes="Physical server in rack B4.",
             duration=187200,
+            tags=(LOCATION,),
         ),
     ),
     "host-recovery": (
@@ -128,6 +131,25 @@ SCENARIOS: dict[str, tuple[str, Notification]] = {
             state="UP",
             output="PING OK - Packet loss = 0%, RTA = 0.42 ms",
             duration=12420,
+            tags=(LOCATION,),
+        ),
+    ),
+    "service-warning-many-tags": (
+        "Service WARNING with many tags",
+        Notification(
+            **{**SERVICE, "service": "erp-api", "service_display_name": "ERP API latency"},
+            notification_type="Problem",
+            state="WARNING",
+            output="HTTP WARNING - response time 2.8 s (warning at 2 s)",
+            duration=640,
+            tags=(
+                LOCATION,
+                Tag("Team", "Applications"),
+                Tag("Customer", "ACME S.p.A."),
+                Tag("Service level", "Gold 24x7"),
+                Tag("Cluster", "erp-prod-a"),
+                Tag("Owner", "m.rossi"),
+            ),
         ),
     ),
     "service-critical-minimal": (
